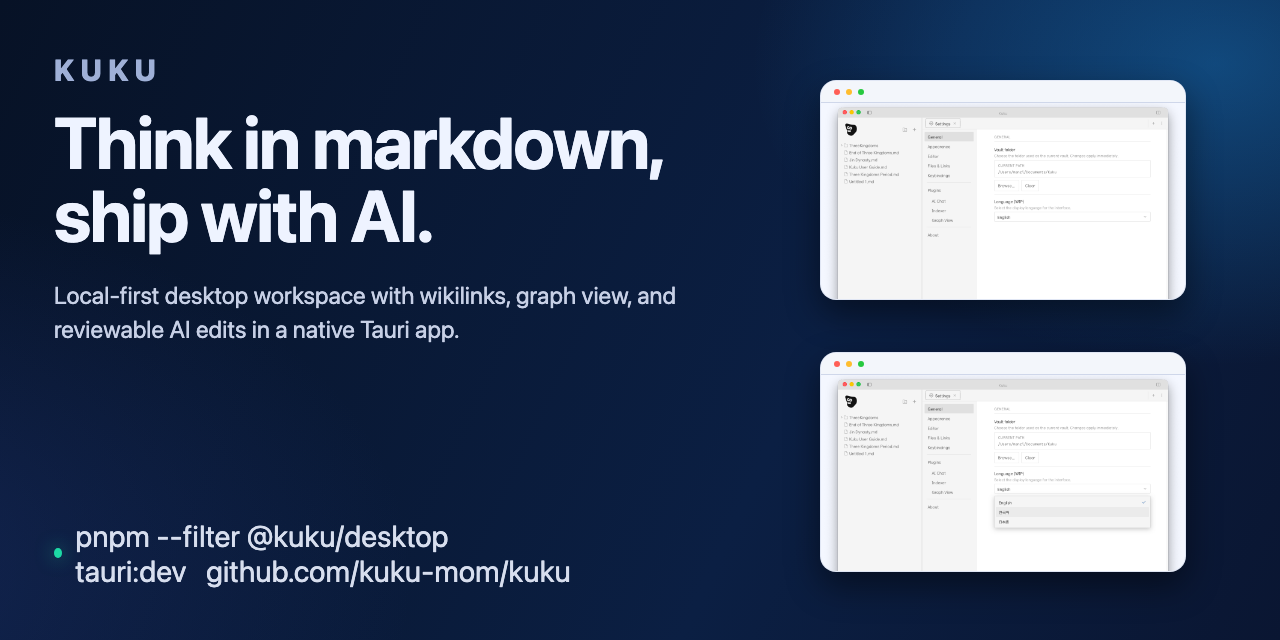
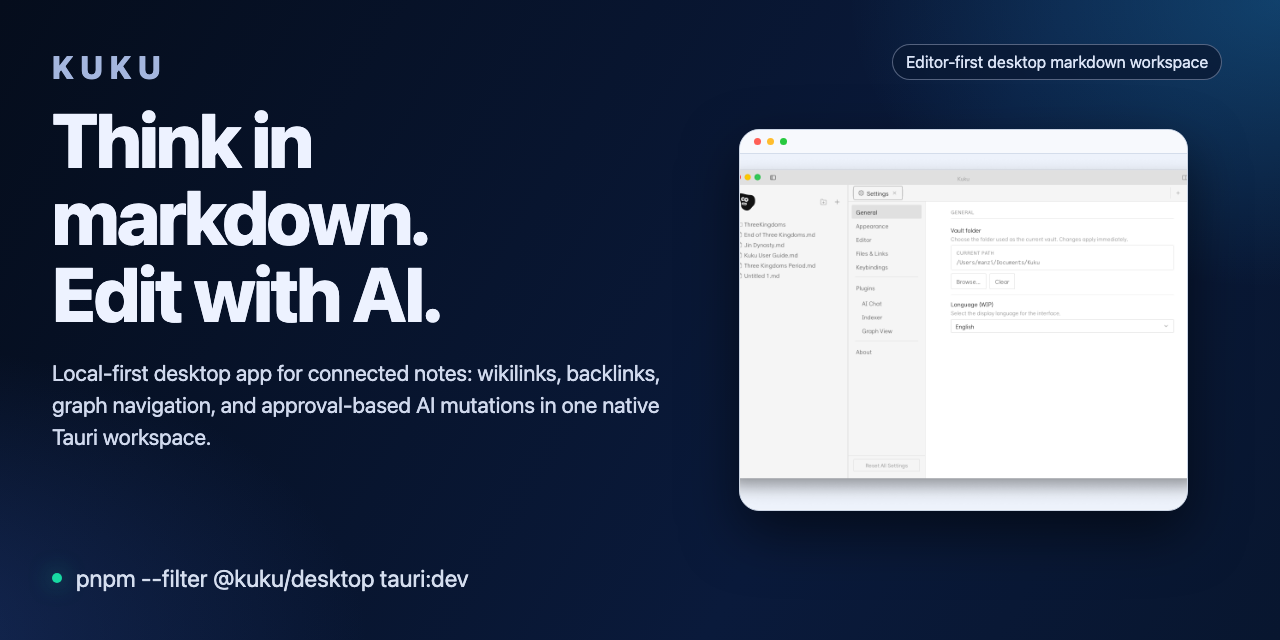
docs: simplify README and switch to editor-focused social card

diff --git a/docs/assets/readme-social-card.html b/docs/assets/readme-social-card.html
@@ -3,41 +3,47 @@
 <head>
 <meta charset="utf-8" />
 <meta name="viewport" content="width=device-width, initial-scale=1" />
-<title>Kuku Social Card</title>
+<title>Kuku Editor Card</title>
 <style>
-  :root{--bg1:#071226;--bg2:#0b1f43;--fg:#eef3ff;--muted:#c7d0e6;--line:#c7d0e633;}
   *{box-sizing:border-box}
-  body{margin:0;width:1280px;height:640px;overflow:hidden;font-family:-apple-system,BlinkMacSystemFont,"Segoe UI",Inter,Roboto,Arial,sans-serif;color:var(--fg);
-    background:radial-gradient(1100px 700px at -15% 90%, #243f8f66 0%, transparent 55%),
-               radial-gradient(800px 520px at 95% 10%, #1ea4ff55 0%, transparent 58%),
-               linear-gradient(115deg,var(--bg1),var(--bg2) 62%,#0a1632);
+  body{margin:0;width:1280px;height:640px;overflow:hidden;font-family:-apple-system,BlinkMacSystemFont,"Segoe UI",Inter,Roboto,Arial,sans-serif;
+    background:
+      radial-gradient(900px 540px at -10% 100%, #2b4ea166 0%, transparent 55%),
+      radial-gradient(720px 480px at 100% 0%, #27b0ff44 0%, transparent 60%),
+      linear-gradient(120deg,#050d1c,#0a1a3b 65%,#08162f);
+    color:#edf2ff;
   }
-  .wrap{display:flex;gap:38px;padding:52px 54px;height:100%}
-  .left{flex:1;display:flex;flex-direction:column}
-  .tag{font-weight:800;letter-spacing:.2em;color:#9fb0d7;font-size:30px}
-  h1{font-size:72px;line-height:1.02;margin:18px 0 0 0;letter-spacing:-.02em;max-width:680px}
-  p{font-size:40px;line-height:1.1;margin:10px 0 0 0;letter-spacing:-.01em}
-  .body{font-size:24px;line-height:1.42;color:var(--muted);margin-top:26px;max-width:700px}
-  .bottom{margin-top:auto;display:flex;align-items:center;gap:14px;color:#d7deee;font-size:30px}
-  .dot{width:10px;height:10px;border-radius:50%;background:#1dd9a5;box-shadow:0 0 18px #1dd9a5aa}
-  .right{width:446px;display:flex;flex-direction:column;gap:20px;padding-top:12px}
-  .shot{border-radius:16px;border:1px solid #cfd8eb88;background:#f4f7ff;box-shadow:0 14px 34px #0007;overflow:hidden}
-  .chrome{height:22px;background:#f3f6fb;border-bottom:1px solid #cfd7ea;display:flex;align-items:center;padding-left:13px;gap:6px}
-  .c{width:6px;height:6px;border-radius:50%}.r{background:#ff5f56}.y{background:#ffbd2e}.g{background:#27c93f}
-  .shot img{display:block;width:100%;height:236px;object-fit:cover}
+  .wrap{height:100%;display:grid;grid-template-columns:1.08fr .92fr;gap:26px;padding:48px 52px}
+  .left{display:flex;flex-direction:column}
+  .tag{font-size:32px;font-weight:800;letter-spacing:.2em;color:#a4b6de}
+  .title{margin-top:16px;font-size:76px;line-height:1.01;letter-spacing:-.03em;font-weight:800}
+  .sub{margin-top:26px;max-width:670px;font-size:22px;line-height:1.45;color:#d0d9ed}
+  .footer{margin-top:auto;display:flex;align-items:center;gap:14px;color:#d5deef;font-size:24px}
+  .dot{width:10px;height:10px;border-radius:50%;background:#18d9a2;box-shadow:0 0 22px #18d9a2aa}
+
+  .right{display:flex;align-items:center;justify-content:center}
+  .window{width:100%;max-width:560px;border-radius:20px;background:#edf2fb;border:1px solid #cbd5e5;box-shadow:0 22px 55px #0008, 0 0 0 1px #ffffff33 inset;overflow:hidden}
+  .chrome{height:24px;background:#f7f9fd;border-bottom:1px solid #d4ddeb;display:flex;align-items:center;padding-left:14px;gap:6px}
+  .c{width:7px;height:7px;border-radius:50%}.r{background:#ff5f56}.y{background:#ffbd2e}.g{background:#27c93f}
+  .window img{display:block;width:100%;height:356px;object-fit:cover;object-position:50% 12%}
+
+  .chip{position:absolute;right:58px;top:44px;padding:8px 13px;border-radius:999px;border:1px solid #c5d0ea66;background:#091833c9;font-size:16px;color:#dbe4f6}
 </style>
 </head>
 <body>
+  <div class="chip">Editor-first desktop markdown workspace</div>
   <div class="wrap">
     <section class="left">
       <div class="tag">KUKU</div>
-      <h1>Think in markdown,<br />ship with AI.</h1>
-      <div class="body">Local-first desktop workspace with wikilinks, graph view, and reviewable AI edits in a native Tauri app.</div>
-      <div class="bottom"><span class="dot"></span><span>pnpm --filter @kuku/desktop tauri:dev&nbsp;&nbsp;&nbsp;github.com/kuku-mom/kuku</span></div>
+      <div class="title">Think in markdown.<br/>Edit with AI.</div>
+      <div class="sub">Local-first desktop app for connected notes: wikilinks, backlinks, graph navigation, and approval-based AI mutations in one native Tauri workspace.</div>
+      <div class="footer"><span class="dot"></span><span>pnpm --filter @kuku/desktop tauri:dev</span></div>
     </section>
     <aside class="right">
-      <figure class="shot"><div class="chrome"><span class="c r"></span><span class="c y"></span><span class="c g"></span></div><img src="../screenshots/kuku-screen-1.png" alt="workspace" /></figure>
-      <figure class="shot"><div class="chrome"><span class="c r"></span><span class="c y"></span><span class="c g"></span></div><img src="../screenshots/kuku-screen-2-settings.png" alt="settings" /></figure>
+      <figure class="window">
+        <div class="chrome"><span class="c r"></span><span class="c y"></span><span class="c g"></span></div>
+        <img src="../screenshots/kuku-screen-1.png" alt="Kuku editor workspace" />
+      </figure>
     </aside>
   </div>
 </body>

diff --git a/README.md b/README.md
@@ -15,73 +15,3 @@ Local-first markdown desktop workspace for focused thinking.
 Kuku combines plain-file markdown editing, wikilinks/backlinks, graph navigation, and in-app AI workflows with approval-based file mutations.
 
 ![Kuku social card](docs/assets/readme-social-card.png)
-
-## Screens
-
-<table>
-  <tr>
-    <th>Workspace Shell</th>
-    <th>Provider Setup</th>
-  </tr>
-  <tr>
-    <td><img src="docs/screenshots/kuku-screen-1.png" alt="Kuku workspace shell" /></td>
-    <td><img src="docs/screenshots/kuku-screen-2-settings.png" alt="Kuku provider setup" /></td>
-  </tr>
-  <tr>
-    <td>Real app workspace with vault tree, center editor, and right utility rail.</td>
-    <td>Desktop-side provider and key setup flow for AI integration.</td>
-  </tr>
-  <tr>
-    <th>Search Surface</th>
-    <th>Search With Query</th>
-  </tr>
-  <tr>
-    <td><img src="docs/screenshots/kuku-screen-3-search.png" alt="Kuku search surface" /></td>
-    <td><img src="docs/screenshots/kuku-screen-4-search-query.png" alt="Kuku search with query" /></td>
-  </tr>
-  <tr>
-    <td>Advanced search tab for vault-wide lookup inside the app.</td>
-    <td>Query state for fast note discovery and keyboard-first navigation.</td>
-  </tr>
-</table>
-
-## Why Kuku
-
-- Local-first markdown workflow on your own files
-- Wikilinks, backlinks, and graph-first navigation
-- AI-assisted editing with explicit approval for file changes
-- Native desktop runtime via Tauri (not Electron)
-
-## Quick start
-
-```bash
-pnpm install
-pnpm --filter @kuku/desktop tauri:dev
-```
-
-## Repository layout
-
-```text
-apps/
-  desktop/     Tauri desktop app (SolidJS frontend + Rust backend)
-  web/         Astro site (landing/auth/dashboard)
-  server/      Go API server (Connect RPC)
-crates/
-  kuku-ai/       AI integration
-  kuku-contract/ RPC contract (Rust)
-  kuku-indexer/  file indexing
-packages/
-  contract/    shared contract (gen/go + gen/ts)
-infra/docker/
-  local/       local stack (web + server + postgres + mailpit)
-  preview/     staging
-  prod/        production
-```
-
-## Contributing
-
-Issues and PRs are welcome. For large changes, open an issue first.
-
-## License
-
-[MIT](LICENSE) © kuku-mom

diff --git a/README_ko.md b/README_ko.md
@@ -15,73 +15,3 @@
 Kuku는 일반 파일 기반 마크다운 편집, 위키링크/백링크, 그래프 탐색, 그리고 승인 기반 AI 파일 수정 워크플로우를 하나의 네이티브 앱으로 제공합니다.
 
 ![Kuku social card](docs/assets/readme-social-card.png)
-
-## Screens
-
-<table>
-  <tr>
-    <th>Workspace Shell</th>
-    <th>Provider Setup</th>
-  </tr>
-  <tr>
-    <td><img src="docs/screenshots/kuku-screen-1.png" alt="Kuku workspace shell" /></td>
-    <td><img src="docs/screenshots/kuku-screen-2-settings.png" alt="Kuku provider setup" /></td>
-  </tr>
-  <tr>
-    <td>볼트 트리, 중앙 에디터, 우측 유틸 레일이 포함된 실제 앱 작업 화면.</td>
-    <td>AI 연동을 위한 데스크톱 측 프로바이더/키 설정 흐름.</td>
-  </tr>
-  <tr>
-    <th>Search Surface</th>
-    <th>Search With Query</th>
-  </tr>
-  <tr>
-    <td><img src="docs/screenshots/kuku-screen-3-search.png" alt="Kuku search surface" /></td>
-    <td><img src="docs/screenshots/kuku-screen-4-search-query.png" alt="Kuku search with query" /></td>
-  </tr>
-  <tr>
-    <td>앱 내부 전체 볼트 탐색을 위한 고급 검색 탭.</td>
-    <td>쿼리 입력 후 빠른 노트 탐색/이동 상태.</td>
-  </tr>
-</table>
-
-## 왜 Kuku인가
-
-- 내 파일 기반 로컬 우선 마크다운 워크플로우
-- 위키링크, 백링크, 그래프 중심 탐색
-- 파일 변경은 승인 기반으로 처리되는 AI 편집
-- Tauri 기반 네이티브 데스크톱 런타임 (Electron 아님)
-
-## 빠른 시작
-
-```bash
-pnpm install
-pnpm --filter @kuku/desktop tauri:dev
-```
-
-## 레포지토리 구조
-
-```text
-apps/
-  desktop/     Tauri 데스크톱 앱 (SolidJS + Rust)
-  web/         Astro 웹 (랜딩/인증/대시보드)
-  server/      Go API 서버 (Connect RPC)
-crates/
-  kuku-ai/       AI 연동
-  kuku-contract/ RPC 계약 (Rust)
-  kuku-indexer/  파일 인덱싱
-packages/
-  contract/    공유 계약 (gen/go + gen/ts)
-infra/docker/
-  local/       로컬 스택 (web + server + postgres + mailpit)
-  preview/     스테이징
-  prod/        프로덕션
-```
-
-## 기여
-
-이슈/PR 환영합니다. 큰 변경은 먼저 이슈로 논의해주세요.
-
-## 라이선스
-
-[MIT](LICENSE) © kuku-mom